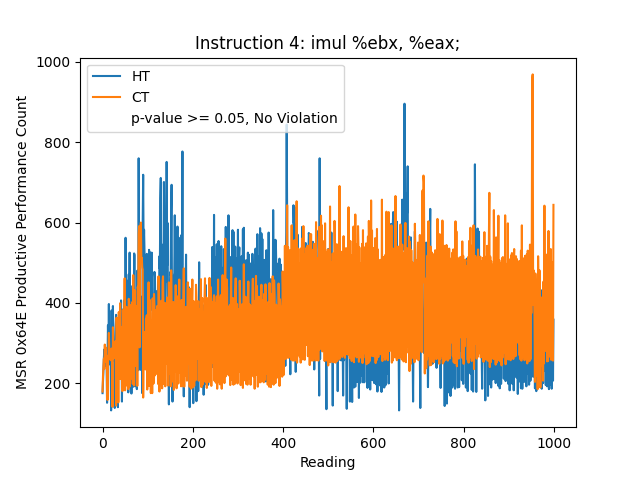
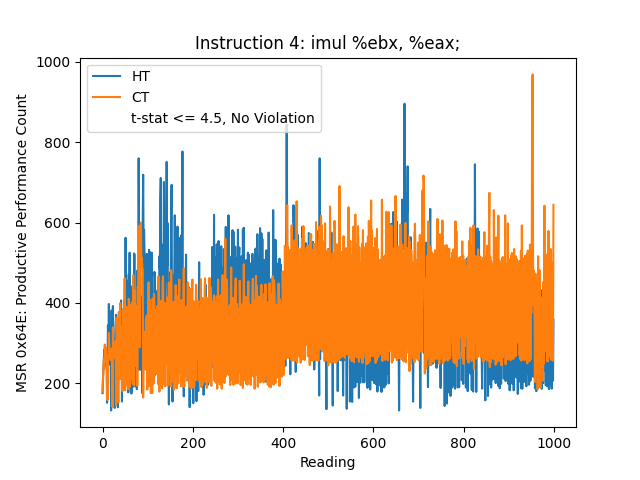
use t-stat

Changed region(s): [[0.0, 0.1875, 0.0625, 0.8125], [0.2188, 0.2188, 0.5312, 0.2812]]

diff --git a/utils.py b/utils.py
@@ -136,10 +136,10 @@ def replace_func_body(file_path, basic_inst, measurement_inst, measurement_inst_
     return output
 
 
-def tvla(data1, data2, alpha = 0.05):
+def tvla(data1, data2, alpha = 4.5):
     t_stat, p_val = stats.ttest_ind(data1, data2, equal_var=False)
 
-    if p_val < alpha:
+    if abs(t_stat) > alpha:
         # print("Reject Null Hypothesis: Significant side-channel leakage detected")
         return 1
     else:
@@ -155,12 +155,12 @@ def make_plot(data1, data2, instruction_num, instruction, tvla_result):
     plt.plot(data2, label='CT')
     plt.title(f'Instruction {instruction_num}: {instruction}')
     plt.xlabel('Reading')
-    plt.ylabel('MSR 0x64E Productive Performance Count')
+    plt.ylabel('MSR 0x64E: Productive Performance Count')
 
     if tvla_result == 1:
-        plt.plot([], [], ' ', label='p-value < 0.05, Violation')
+        plt.plot([], [], ' ', label='t-stat > 4.5, Violation')
     else:
-        plt.plot([], [], ' ', label='p-value >= 0.05, No Violation')
+        plt.plot([], [], ' ', label='t-stat <= 4.5, No Violation')
 
     plt.legend()
 

diff --git a/main.py b/main.py
@@ -1,7 +1,6 @@
 from utils import convert, replace_func_body, create_temp_assembly, read_file, tvla, make_plot
 import subprocess
 import argparse
-import re
 import os
 
 def create_contract_trace(asm_code, power_monitor_code_path, line_num):
@@ -86,7 +85,6 @@ if __name__ == '__main__':
     if not os.path.exists('./outputs'):
         os.makedirs('./outputs')
     
-    # num_readings = 1000 
     print(f'Number of instructions: {num_instructions}')
 
     print('###### Building Hardware Trace ######')
